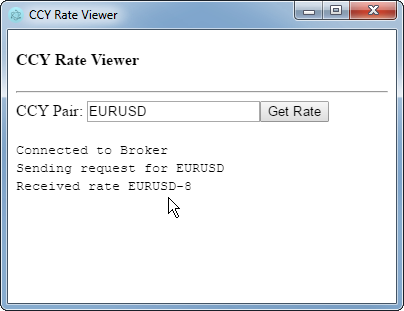
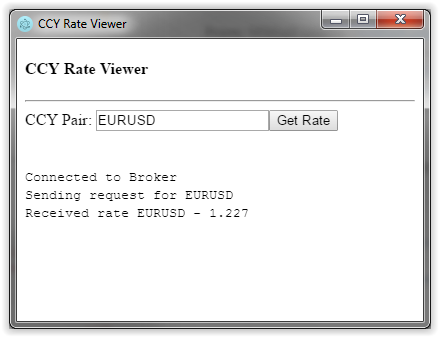
Updates for Web quick start

Changed region(s): [[0.0, 0.0, 1.0, 1.0]]

diff --git a/web/packages/e2e/tests/benchmarks/WebSocketTransportBenchmark.spec.ts b/web/packages/e2e/tests/benchmarks/WebSocketTransportBenchmark.spec.ts
@@ -30,21 +30,21 @@ describe("Web Socket Client Benchmarks", () => {
         transportsSetup.createWebSocketTransportProvider(wsUrl), 
         clientsSetup);
 
-    it("Sends ~60 point to point requests in 1 second", function() {
+    it("Sends ~50 point to point requests in 1 second", function() {
         this.timeout(5000);
         return (async () => {
             const result = await echoServiceBenchmark.testUnaryMessagesSentWithinPeriod(1024, 3000);
             console.log("Benchmark result:", JSON.stringify(result));
-            expect(result.messagesSent).to.be.greaterThan(165);
+            expect(result.messagesSent).to.be.greaterThan(140);
         })();
     });
 
-    it("Sends ~350 streaming messages in 1 second", function() {
+    it("Sends ~300 streaming messages in 1 second", function() {
         this.timeout(5000);
         return (async () => {
             const result = await echoServiceBenchmark.testStreamingEventsSentWithinPeriod(1024, 3000);
             console.log("Benchmark result:", JSON.stringify(result));
-            expect(result.messagesSent).to.be.greaterThan(1000);
+            expect(result.messagesSent).to.be.greaterThan(900);
         })();
     });
 

diff --git a/web/packages/ccy-pair-rate-viewer/src/index.ts b/web/packages/ccy-pair-rate-viewer/src/index.ts
@@ -50,12 +50,10 @@ const log = (msg: string) => {
 window.getRate = () => log("Not connected to Broker");
 
 new WebCcyPairRateViewerClientBuilder()
-    // App's ID and Instance ID received from Launcher
     .withClientDetails({
         applicationId: "vendorB.fx.WebCcyPairRateViewer",
         applicationInstanceId: instanceId
     })
-    // Pass Transport to be used for connecting to Broker
     .withTransportConnectionProvider(() => new WebSocketConnectionFactory(new WebSocket(webSocketUrl)).connect())
     .connect()
     .then(async (rateViewerClient: WebCcyPairRateViewerClient) => {
@@ -64,6 +62,6 @@ new WebCcyPairRateViewerClientBuilder()
             const ccyPair = (document.getElementById("ccyPair") as HTMLInputElement).value;
             log(`Sending request for ${ccyPair}`);
             const ccyPairRate = await rateViewerClient.getCcyPairRateServiceProxy().getRate({ccyPairName: ccyPair});
-            log(`Received rate ${ccyPairRate.ccyPairName}-${ccyPairRate.rate}`);
+            log(`Received rate ${ccyPairRate.ccyPairName} - ${ccyPairRate.rate}`);
         };
     });

diff --git a/web/packages/ccy-pair-rate-provider/src/RateService.ts b/web/packages/ccy-pair-rate-provider/src/RateService.ts
@@ -14,14 +14,23 @@
  * See the License for the specific language governing permissions and
  * limitations under the License.
  */
+
+import * as plexus from "./gen/plexus-messages";
+
 export class RateService {
     
-    public getRate(ccyPair: string): number {
+    public getRate(ccyPair: string): plexus.fx.ICcyPairRate {
          switch (ccyPair)  {
             case "EURUSD":
-                return parseFloat((1.15 + 0.1 * Math.random()).toFixed(3));
+                return {
+                    ccyPairName: ccyPair,
+                    rate: parseFloat((1.15 + 0.1 * Math.random()).toFixed(3))
+                };
             case "EURGBP":
-                return parseFloat((0.87 + 0.1 * Math.random()).toFixed(3));
+                return {
+                    ccyPairName: ccyPair,
+                    rate: parseFloat((0.87 + 0.1 * Math.random()).toFixed(3))
+                };
             default:
                 throw new Error(`Unsupported CCY Pair name ${ccyPair}`);
         }

diff --git a/web/packages/ccy-pair-rate-provider/src/index.ts b/web/packages/ccy-pair-rate-provider/src/index.ts
@@ -62,10 +62,7 @@ new WebCcyPairRateProviderClientBuilder()
     .withCcyPairRateServiceInvocationsHandler({
         onGetRate: async (context, ccyPair: plexus.fx.ICcyPair) => {
             log(`Received request for ${ccyPair.ccyPairName}'s Rate`);
-            return {
-                ccyPairName: ccyPair.ccyPairName,
-                rate: rateService.getRate(ccyPair.ccyPairName)
-            };
+            return rateService.getRate(ccyPair.ccyPairName);
         }
     })
     .connect()
